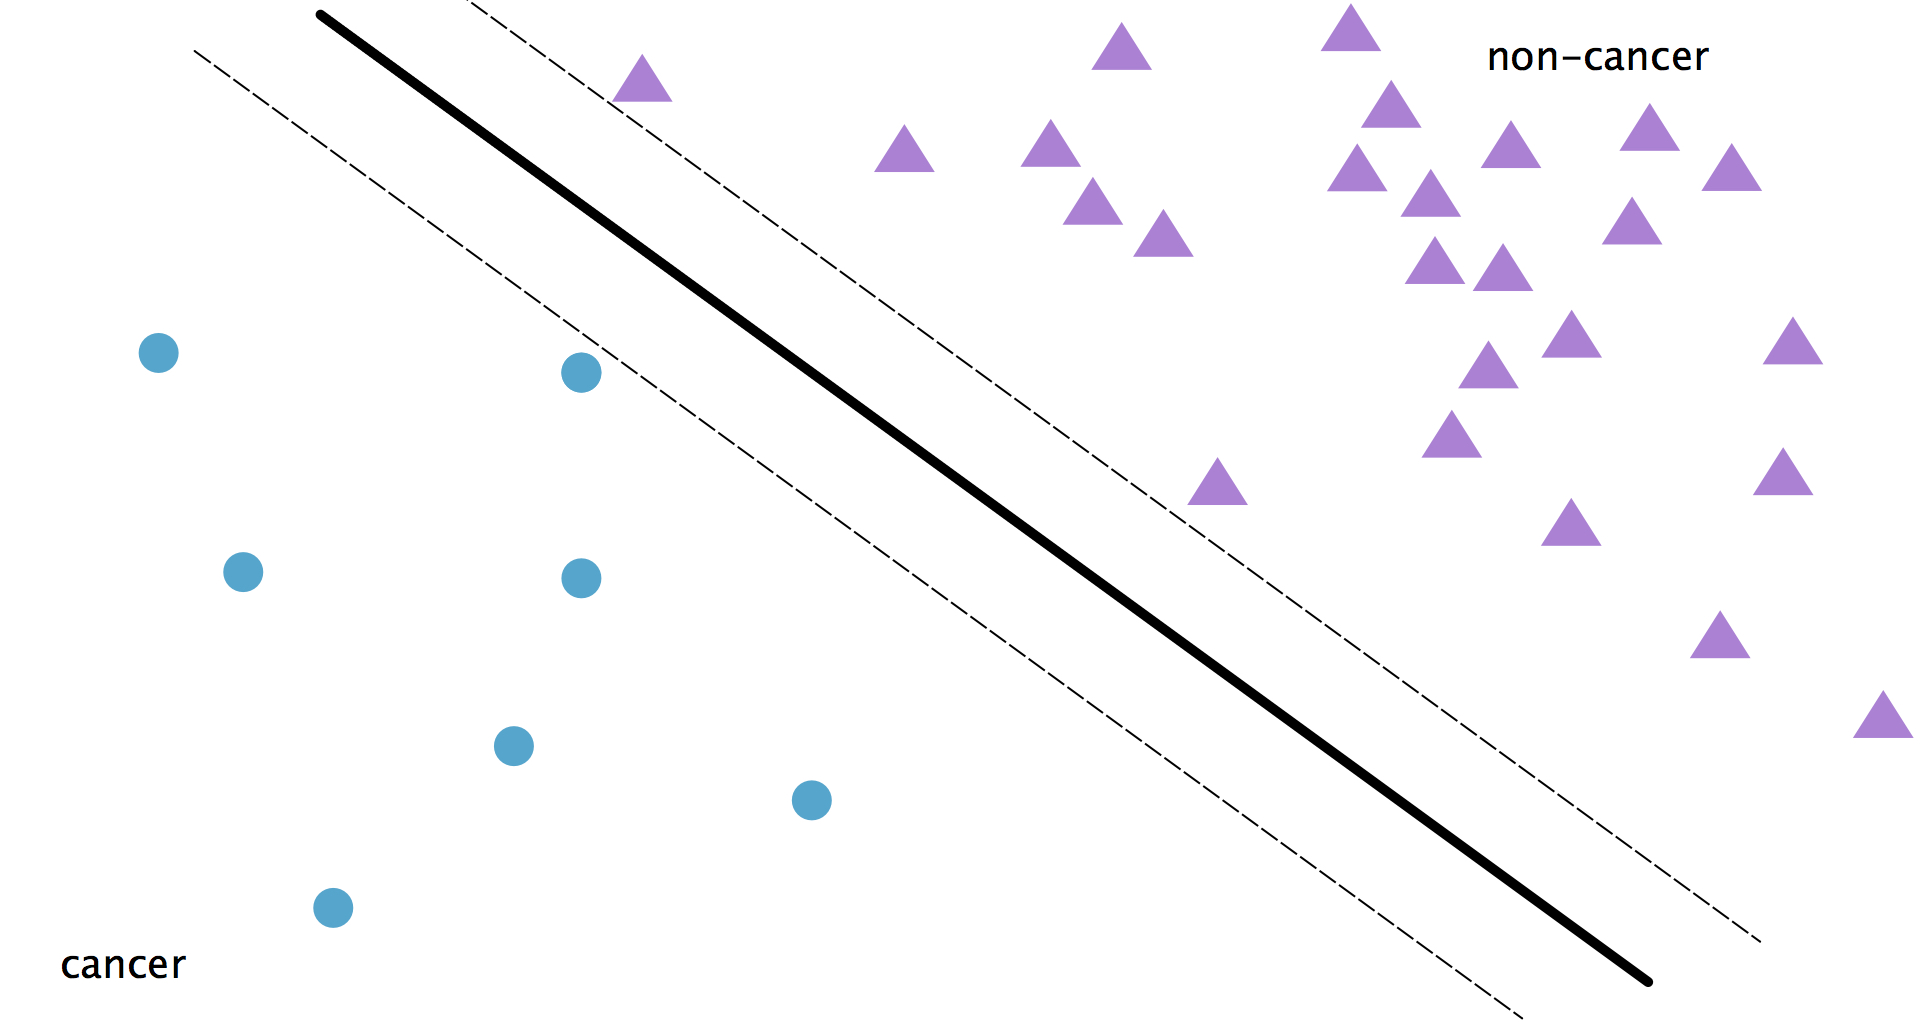
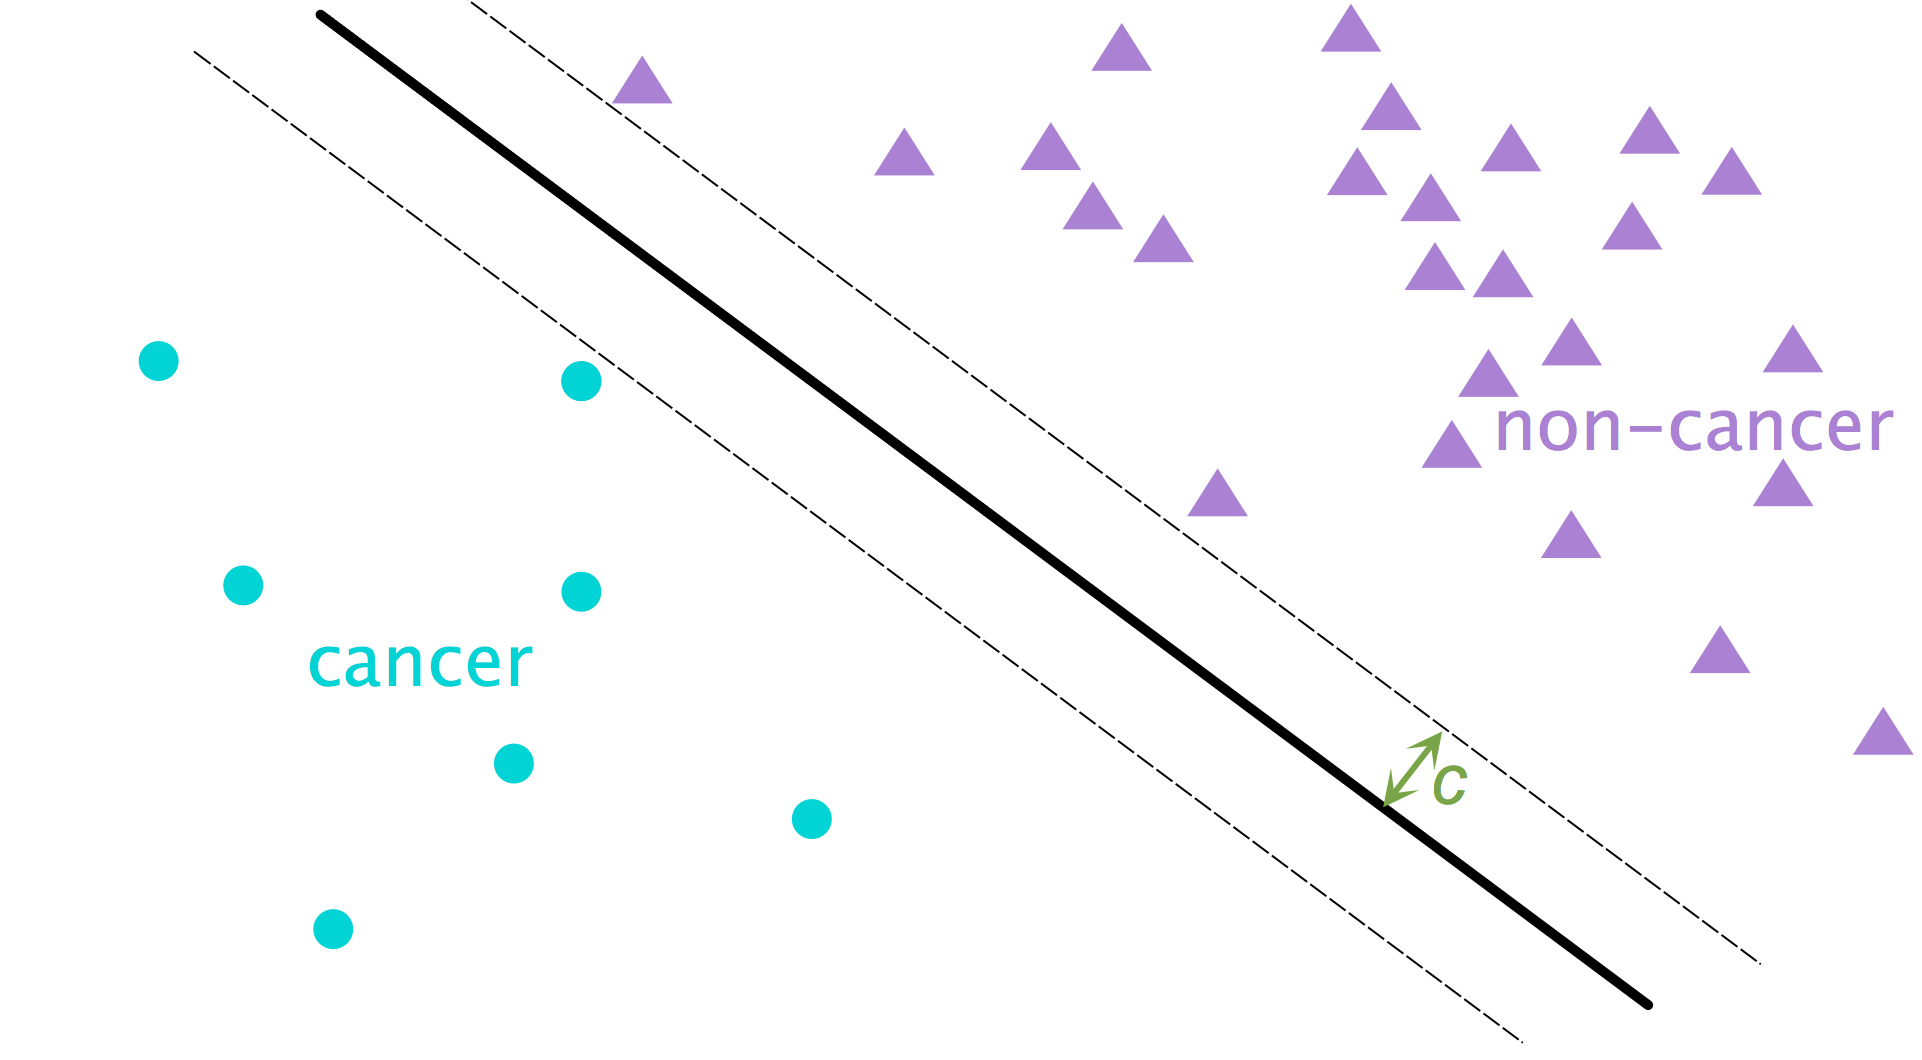
Updated final slides with examples and text. Ready for practise.

diff --git a/analyze-boulder-2015.html b/analyze-boulder-2015.html
@@ -74,8 +74,9 @@
 	</section>
 
 	<section>
-	  <h2>Linear Regression</h2>
+	  <h2 style="color:#9370DB">Linear Regression</h2>
 	  <img class="stretch" src="images/cat_regression2.jpg">
+	  <p class="fragment" style="text-align:center">Squared loss: $(y - \hat{y})^2$</p>
 	  <aside class="notes">
 	    <p>Have you ever wondered why machine learning algorithms are structured the way they are?</p>
 	    <p>Take regression. To do a regression we solve an optimization problem: find the line that fits the data points the best. "fits" is the sum of squared error costs.</p>
@@ -88,17 +89,21 @@
 	</section>
 
 	<section>
-	  <h2>Support Vector Machine</h2>
+	  <h3>Support Vector Machine</h3>
 	  <img class="stretch" src="images/svm_example.jpg">
+	  <div class="fragment" style="padding-left: 7em;font-size:80%">
+	    <p style="text-align:left">$\max c $</p>
+	    <p>s.t. $\| \beta \| = 1$ and $\:y_i (\beta^T x_i) \geq c \:\: i=1,\ldots,n$</p>
+	  </div>
 	</section>
 
 	<section>
-	  <h2>Support Vector Machine</h2>
-	  Problem setup
-	</section>
-
-	<section>
-	  <h2>Logistic Regression</h2>
+	  <h3>Logistic Regression</h3>
+	  <img class="stretch" src="images/logistic_regression.jpg">
+	  <div style="padding-left:7em">
+	    <p class="fragment">$\min_{\beta}\sum_i \text{Loss}_{0/1}(\beta^Tx_i)$</p>
+	    <p class="fragment" style="color:#9370DB">$\min_{\beta}\sum_i \text{Loss}_{\text{logistic}} (\beta^Tx_i) $</p>
+	  </div>
 	</section>
 
 	<section>
@@ -123,15 +128,15 @@
 	</section>
 
 	<section>
-	  <div>
+	  <div>	    
 	    <blockquote style="font-size:150%;color:#9370DB">
-	      To solve complicated AI tasks, machine learning will have to go non-convex.
+	      Convex Schmonvex.
 	    </blockquote>
 	    —Yann LeCun
 	  </div>
 	  <div class="fragment">
 	    <blockquote style="font-size:150%;color:#9370DB">
-	      Convex Schmonvex.
+	      To solve complicated AI tasks, machine learning will have to go non-convex.
 	    </blockquote>
 	    —Yann LeCun
 	  </div>
